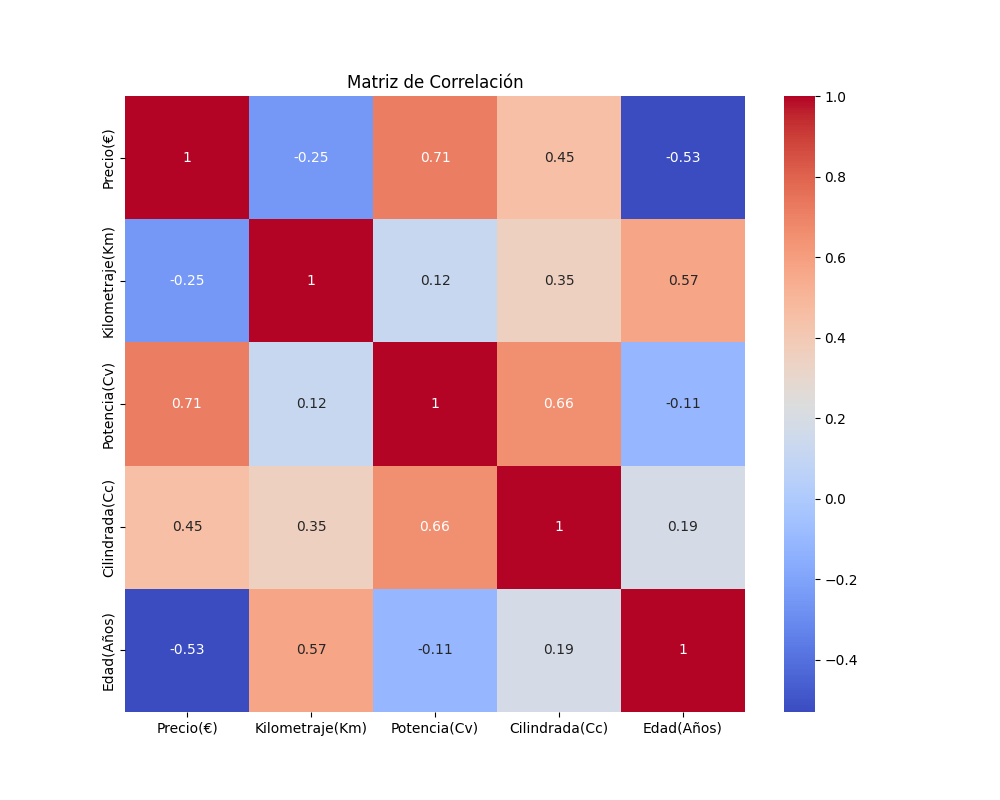
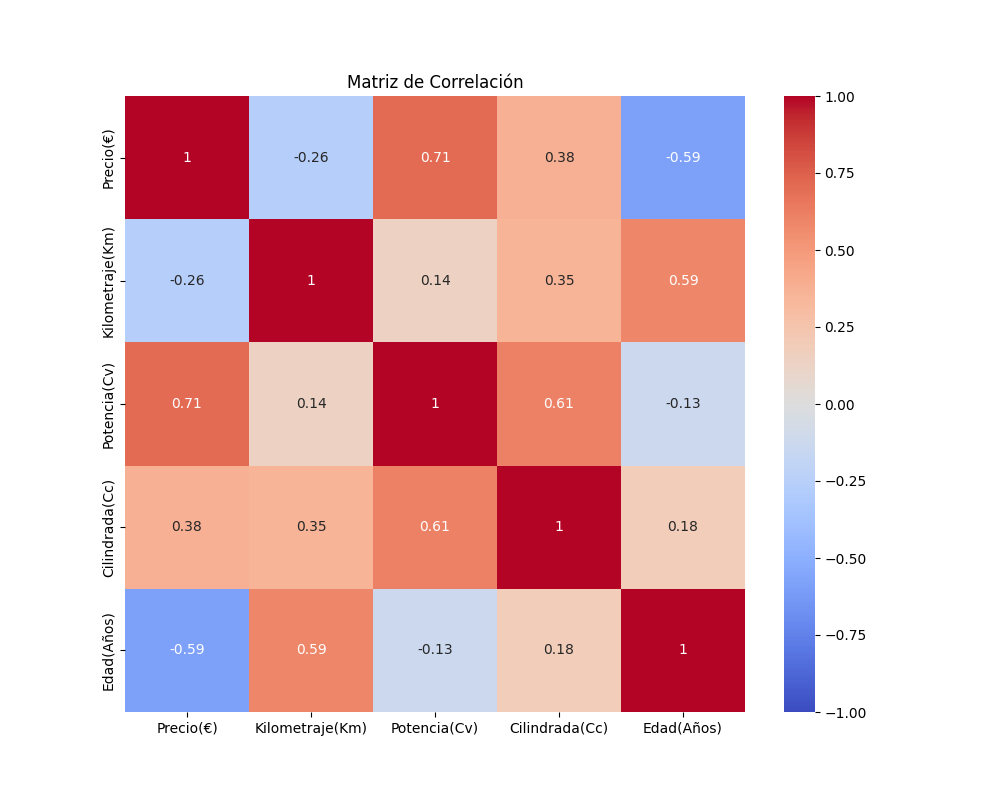
Pablo: Cambiado la correlación a spearman y los colores del heatmap para que el 0 sea completamente blanco, el 1 rojo y el -1 azul.

diff --git a/src/exploracion/exploracion.py b/src/exploracion/exploracion.py
@@ -17,11 +17,11 @@ print(data.select_dtypes(include=["object"]).nunique())
 data_numeric = data.select_dtypes(include=[np.number])
 
 # Calcular la matriz de correlación para las variables numéricas
-correlation_matrix = data_numeric.corr()
+correlation_matrix = data_numeric.corr(method='spearman')
 
 # Visualización de la matriz de correlación
 plt.figure(figsize=(10, 8))
-sns.heatmap(correlation_matrix, annot=True, cmap="coolwarm")
+sns.heatmap(correlation_matrix, annot=True, cmap="coolwarm", center= 0, vmin=-1, vmax=1)
 plt.title("Matriz de Correlación")
 plt.savefig(
     "../exploracion/matriz_correlacion.png"
@@ -31,13 +31,13 @@ plt.close()
 
 # Visualización de la relación entre la marca y el precio
 plt.figure(figsize=(10, 6))
-sns.boxplot(x="Precio(€)", y="Marca", data=data, palette="coolwarm")
+sns.boxplot(x="Precio(€)", y="Marca", hue="Marca", data=data, palette="coolwarm", legend=False)
 plt.title("Precio por Marca")
 plt.xticks(rotation=45)
 plt.savefig(
     "../exploracion/precio_por_marca.png"
 )  # Guardar la figura en la carpeta de exploracion
-plt.show()  # Mostrar la figura
+plt.show()
 plt.close()
 
 # Precio según Edad, tipo de Carburante y transmisión
